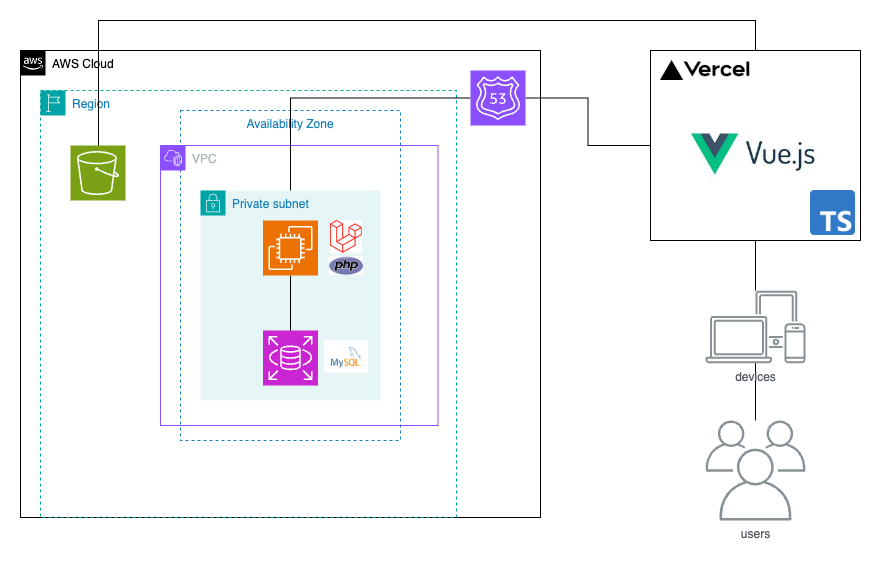
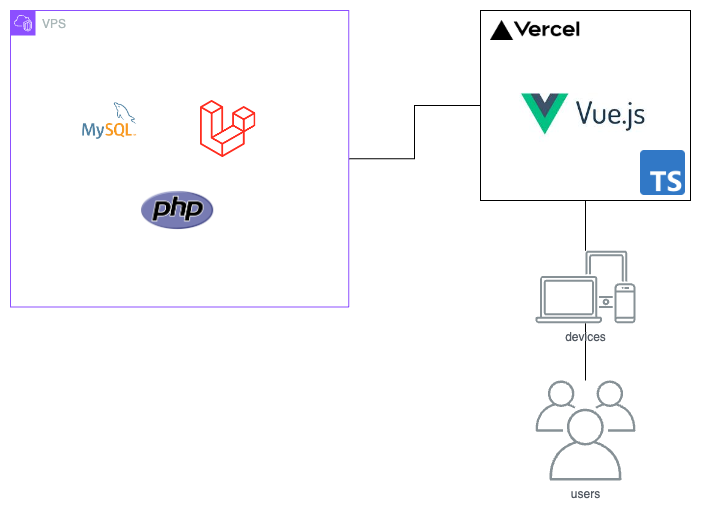
#112 プライバシーポリシーページの作成

diff --git a/client/src/views/AboutBlogView.vue b/client/src/views/AboutBlogView.vue
@@ -5,12 +5,14 @@ import NoSidebarLayout from '@/components/layouts/NoSidebarLayout.vue';
 <template>
   <NoSidebarLayout>
     <div class="about-blog">
+      <h2>1. ブログの概要</h2>
+
       <p class="mb">
         このブログは専門学校に通いながら、プライベートの時間で作成したブログです。
       </p>
 
       <p class="mb">
-        2024年の2月に公開しました。
+        2024年の3月に公開しました。
         <br>今後も定期的にメンテナンスを実施し、当ブログを運用していく予定です。
       </p>
 
@@ -18,7 +20,7 @@ import NoSidebarLayout from '@/components/layouts/NoSidebarLayout.vue';
         このページでは当サイトの目的と技術仕様についてまとめています。
       </p>
 
-      <h2>1. ブログの目的</h2>
+      <h2 class="h2-mb">2. ブログの目的</h2>
 
       <ul class="mb">
         <li>日々の学習記録</li>
@@ -26,17 +28,43 @@ import NoSidebarLayout from '@/components/layouts/NoSidebarLayout.vue';
       </ul>
 
       <p>
-        もともとは就職活動用のポートフォリオ兼ブログとして作成したものですが、その役割を終え、現在は日々学んだことの記録が主な目的です。
+        もともとは就職活動用のポートフォリオとして作成したものですが、その役割を終え、現在は日々学んだことの記録が主な目的です。
       </p>
 
-      <h2>2. 技術仕様</h2>
+      <h2 class="h2-mb">3. ドキュメント</h2>
+
+      <p class="mb">
+        当ブログはプログラミングだけでなく、要件定義、基本設計、詳細設計などの設計部分も実施しています。
+      </p>
+
+      <ul class="mb">
+        <li>
+          <a target="_blank" href="https://drive.google.com/drive/folders/1BHxJVzMoHS33fSvYP4z38tI7lflqTVMI">
+            要件定義関連のドキュメント
+          </a>
+        </li>
+
+        <li>
+          <a target="_blank" href="https://drive.google.com/drive/folders/1JwoBEoxcD2btSq9ksoTYolIzO04Ubgpy">
+            基本設計関連のドキュメント
+          </a>
+        </li>
+
+        <li>
+          <a target="_blank" href="https://drive.google.com/drive/folders/1_7UE0r_VSMDlDaYLww5pUKFtxkAxwKA7">
+            詳細設計関連のドキュメント
+          </a>
+        </li>
+      </ul>
+
+      <h2 class="h2-mb">4. 技術仕様</h2>
 
       <ul class="mb">
         <li>Webアプリ部分（クライアントサイド）
           <ul>
             <li>Vue.js</li>
             <li>HTML</li>
-            <li>SCSS</li>
+            <li>CSS</li>
             <li>TypeScript</li>
             <li>fetchAPI</li>
             <li>vue-router</li>
@@ -47,27 +75,28 @@ import NoSidebarLayout from '@/components/layouts/NoSidebarLayout.vue';
 
         <li>Webアプリ部分（サーバーサイド）
           <ul>
-            <li>Laravel10</li>
+            <li>Laravel</li>
             <li>MySQL</li>
             <li>PHP</li>
-            <li>sanctum（トークンベースの認証機能作成時に利用）</li>
+            <li>sanctum</li>
           </ul>
         </li>
 
         <li>CI/CD / インフラ部分
           <ul>
-            <li>Heroku</li>
-            <li>HerokuPostgres</li>
+            <li>ロリポップマネージドクラウド（VPSサーバーにLaravelをインストールし、運用しています。）</li>
             <li>Vercel</li>
           </ul>
         </li>
 
         <li>その他利用ツール
           <ul>
-            <li>MAMP（Laravel、MySQL、PHPの実行環境として利用）</li>
-            <li>Vite（Vue.jsの実行環境として利用）</li>
-            <li>postman（Laravelで作成したAPIのテストツールとして利用）</li>
-            <li>Git / GitHub（ソースコードの管理に利用）</li>
+            <li>MAMP / XAMPP</li>
+            <li>Vite</li>
+            <li>postman</li>
+            <li>Git / GitHub</li>
+            <li>canva</li>
+            <li>Excel / Word / diagrams.net</li>
           </ul>
         </li>
       </ul>
@@ -102,7 +131,11 @@ import NoSidebarLayout from '@/components/layouts/NoSidebarLayout.vue';
   h2 {
     font-size: 28px;
     font-weight: bold;
-    margin: 50px 0 10px;
+    margin-bottom: 10px;
+  }
+
+  .h2-mb {
+    margin-top: 50px;
   }
 
   li {

diff --git a/client/src/views/PrivacyPolicyView.vue b/client/src/views/PrivacyPolicyView.vue
@@ -11,13 +11,13 @@ import NoSidebarLayout from '@/components/layouts/NoSidebarLayout.vue';
         このプライバシーポリシーは、[Hayate Tech Lab]（以下「当ブログ」とします）の利用に関する個人情報の収集、使用、および保護についての方針を示しています。
       </p>
 
-      <h2>2. 収集する情報</h2>
+      <h2 class="h2-mb">2. 収集する情報</h2>
 
       <p class="mb">
         当ブログでは、お問い合わせフォームを通じて、名前やメールアドレスなどの個人情報を収集する場合があります。これらの情報は、お問い合わせに対する回答やサービスの提供のために利用されます。
       </p>
 
-      <h2>3. 情報の使用</h2>
+      <h2 class="h2-mb">3. 情報の使用</h2>
 
       <p class="mb">
         収集された個人情報は、次の目的のために使用される場合があります。
@@ -29,13 +29,13 @@ import NoSidebarLayout from '@/components/layouts/NoSidebarLayout.vue';
         <li>当ブログの運営や改善に関する連絡</li>
       </ul>
 
-      <h2>4. 情報の保護</h2>
+      <h2 class="h2-mb">4. 情報の保護</h2>
 
       <p class="mb">
         当ブログは、収集された個人情報を適切に保護し、第三者に提供することはありません。また、情報の紛失、不正アクセス、改ざん、漏洩などを防ぐための適切な措置を講じます。
       </p>
 
-      <h2>5. お問い合わせ先</h2>
+      <h2 class="h2-mb">5. お問い合わせ先</h2>
 
       <p>
         プライバシーポリシーに関するご質問がございましたら、以下のメールアドレスまでお気軽にご連絡ください。<br>
@@ -70,7 +70,11 @@ import NoSidebarLayout from '@/components/layouts/NoSidebarLayout.vue';
   h2 {
     font-size: 28px;
     font-weight: bold;
-    margin: 50px 0 10px;
+    margin-bottom: 10px;
+  }
+
+  .h2-mb {
+    margin-top: 50px;
   }
 
   li {
